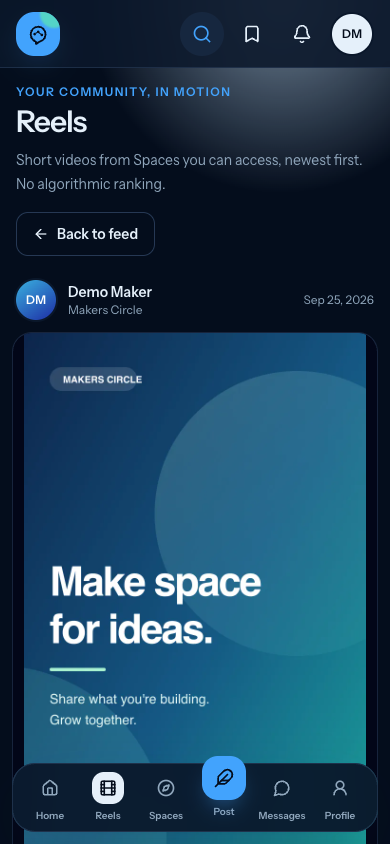
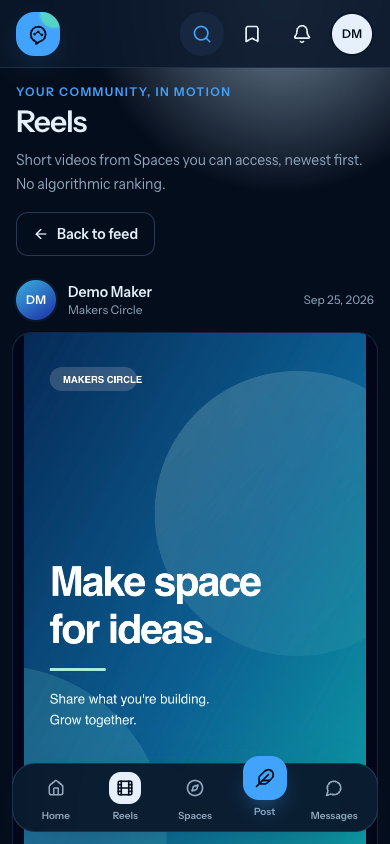
Fix mobile navigation spacing after Reels (#84)

diff --git a/resources/js/components/social/social-nav.tsx b/resources/js/components/social/social-nav.tsx
@@ -146,9 +146,17 @@ function UserButton({
 }
 
 export function DesktopSocialNav() {
-    const { auth, draftSummary, messageSummary, notificationSummary } =
-        usePage().props;
+    const {
+        auth,
+        draftSummary,
+        messageSummary,
+        notificationSummary,
+        videoEnabled,
+    } = usePage().props;
     const { isCurrentOrParentUrl } = useCurrentUrl();
+    const visibleNavItems = videoEnabled
+        ? navItems
+        : navItems.filter((item) => item.href !== '/reels');
 
     return (
         <aside className="fixed inset-y-0 left-0 z-40 hidden w-[18.5rem] border-r border-border/75 bg-card/92 p-4 backdrop-blur-xl lg:flex lg:flex-col">
@@ -159,7 +167,7 @@ export function DesktopSocialNav() {
                     Explore
                 </div>
                 <nav className="mt-2 space-y-1" aria-label="Primary navigation">
-                    {navItems.map((item) => {
+                    {visibleNavItems.map((item) => {
                         const active = isCurrentOrParentUrl(item.href);
                         const Icon = item.icon;
                         const badgeCount =
@@ -304,11 +312,13 @@ export function MobileSocialHeader() {
 }
 
 export function MobileSocialTabs() {
-    const { auth, messageSummary } = usePage().props;
+    const { auth, messageSummary, videoEnabled } = usePage().props;
     const { isCurrentOrParentUrl } = useCurrentUrl();
     const mobileItems = [
         { title: 'Home', href: '/feed', icon: Home },
-        { title: 'Reels', href: '/reels', icon: Film },
+        ...(videoEnabled
+            ? [{ title: 'Reels', href: '/reels', icon: Film }]
+            : []),
         { title: 'Spaces', href: '/spaces', icon: Compass },
         { title: 'Post', href: '/compose', icon: Feather, primary: true },
         {
@@ -317,11 +327,17 @@ export function MobileSocialTabs() {
             icon: MessageCircle,
             unread: messageSummary.unreadCount,
         },
-        {
-            title: 'Profile',
-            href: auth.user ? `/people/${auth.user.handle}` : '/login',
-            icon: UserRound,
-        },
+        ...(!videoEnabled
+            ? [
+                  {
+                      title: 'Profile',
+                      href: auth.user
+                          ? `/people/${auth.user.handle}`
+                          : '/login',
+                      icon: UserRound,
+                  },
+              ]
+            : []),
     ] as const;
 
     return (
@@ -329,7 +345,7 @@ export function MobileSocialTabs() {
             className="fixed inset-x-3 bottom-3 z-50 rounded-[1.45rem] border border-border/75 bg-card/94 px-2 pt-2 pb-[max(.5rem,env(safe-area-inset-bottom))] shadow-[0_18px_55px_-22px_rgba(15,23,42,.48)] backdrop-blur-xl lg:hidden"
             aria-label="Mobile navigation"
         >
-            <div className="mx-auto grid max-w-md grid-cols-6">
+            <div className="mx-auto grid max-w-md grid-cols-5">
                 {mobileItems.map((item) => {
                     const active = isCurrentOrParentUrl(
                         item.href.split('#')[0],
@@ -360,9 +376,11 @@ export function MobileSocialTabs() {
                                     className={primary ? 'size-5' : 'size-4.5'}
                                     strokeWidth={2.2}
                                 />
-                                {'unread' in item && item.unread > 0 && (
-                                    <span className="absolute top-0 right-0 size-2.5 rounded-full bg-coral ring-2 ring-card" />
-                                )}
+                                {'unread' in item &&
+                                    typeof item.unread === 'number' &&
+                                    item.unread > 0 && (
+                                        <span className="absolute top-0 right-0 size-2.5 rounded-full bg-coral ring-2 ring-card" />
+                                    )}
                             </span>
                             {item.title}
                         </Link>

diff --git a/resources/js/types/global.d.ts b/resources/js/types/global.d.ts
@@ -11,6 +11,7 @@ declare module '@inertiajs/core' {
     export interface InertiaConfig {
         sharedPageProps: {
             name: string;
+            videoEnabled: boolean;
             extensionAssets: {
                 version: string;
                 styles: {

diff --git a/tests/Feature/ReelsTest.php b/tests/Feature/ReelsTest.php
@@ -23,6 +23,21 @@ class ReelsTest extends TestCase
         $this->withoutVite();
     }
 
+    public function test_shared_navigation_respects_the_video_feature_flag(): void
+    {
+        $viewer = User::factory()->create();
+
+        config()->set('media.video.enabled', false);
+        $this->actingAs($viewer)->get(route('feed'))
+            ->assertOk()->assertInertia(fn (Assert $page) => $page
+            ->where('videoEnabled', false));
+
+        config()->set('media.video.enabled', true);
+        $this->actingAs($viewer)->get(route('feed'))
+            ->assertOk()->assertInertia(fn (Assert $page) => $page
+            ->where('videoEnabled', true));
+    }
+
     public function test_reels_pages_ready_visible_posts_in_stable_chronological_order(): void
     {
         $viewer = User::factory()->create();

diff --git a/app/Http/Middleware/HandleInertiaRequests.php b/app/Http/Middleware/HandleInertiaRequests.php
@@ -44,6 +44,7 @@ class HandleInertiaRequests extends Middleware
         return [
             ...parent::share($request),
             'name' => config('app.name'),
+            'videoEnabled' => config('media.video.enabled') === true,
             'extensionAssets' => app(ExtensionAssetManager::class)->payload(),
             'auth' => [
                 'user' => $request->user(),

diff --git a/CHANGELOG.md b/CHANGELOG.md
@@ -62,6 +62,12 @@ All notable project changes will be documented here.
   mockups, dedicated native dark-mode coverage, and a more focused community
   and platform-operations tour built only from synthetic demo screens.
 
+### Fixed
+
+- Restored a five-item mobile navigation after adding Reels. The video link
+  appears only when video posts are enabled; the account avatar retains profile
+  access when Reels takes the fifth tab.
+
 ### Security
 
 - Updated the locked transitive `js-yaml` and `nanoid` packages to patched
